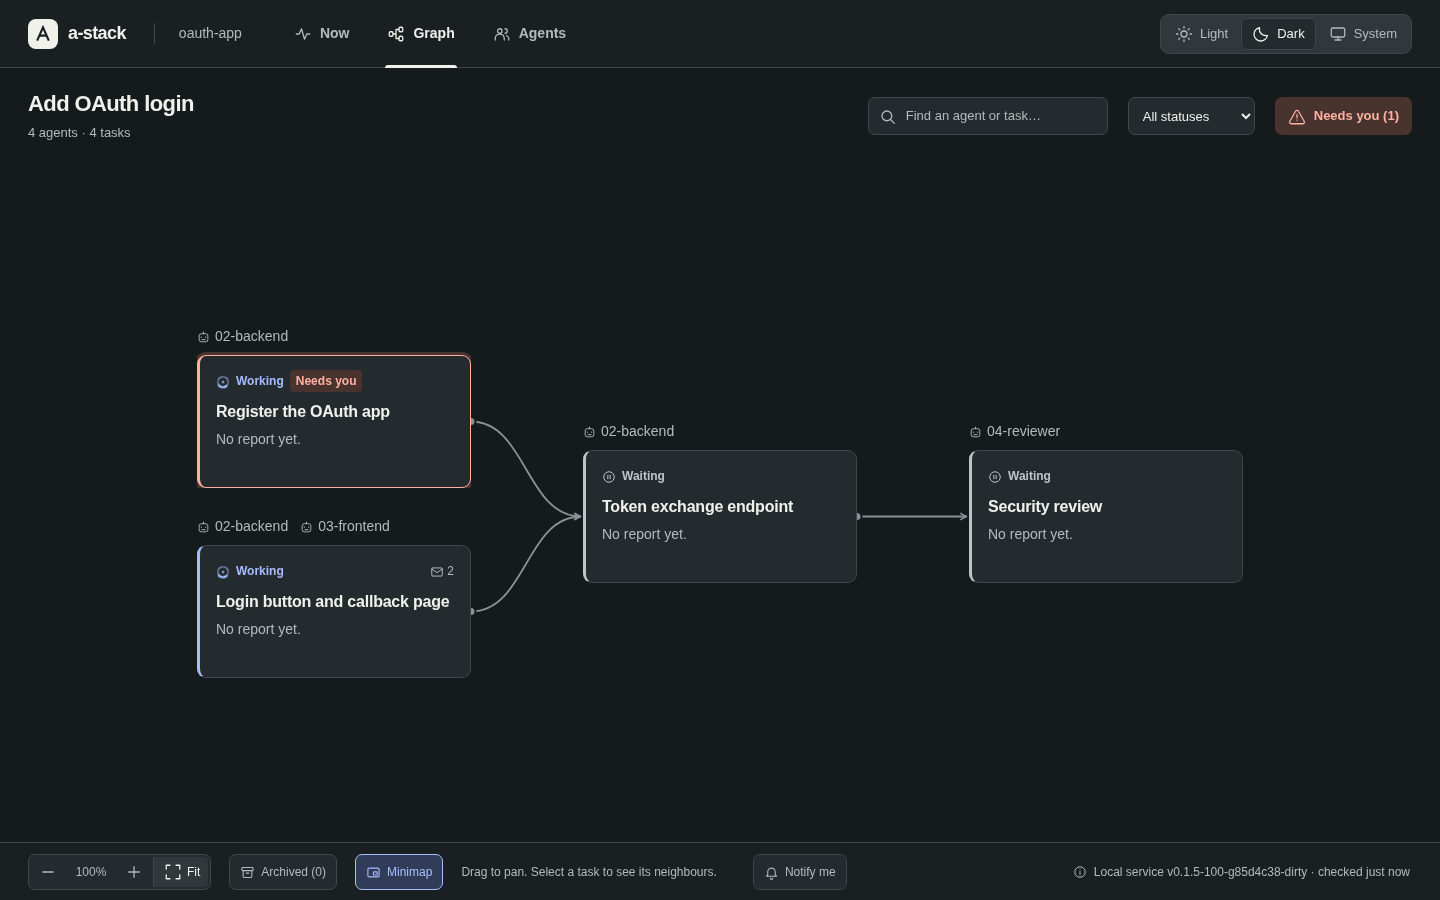
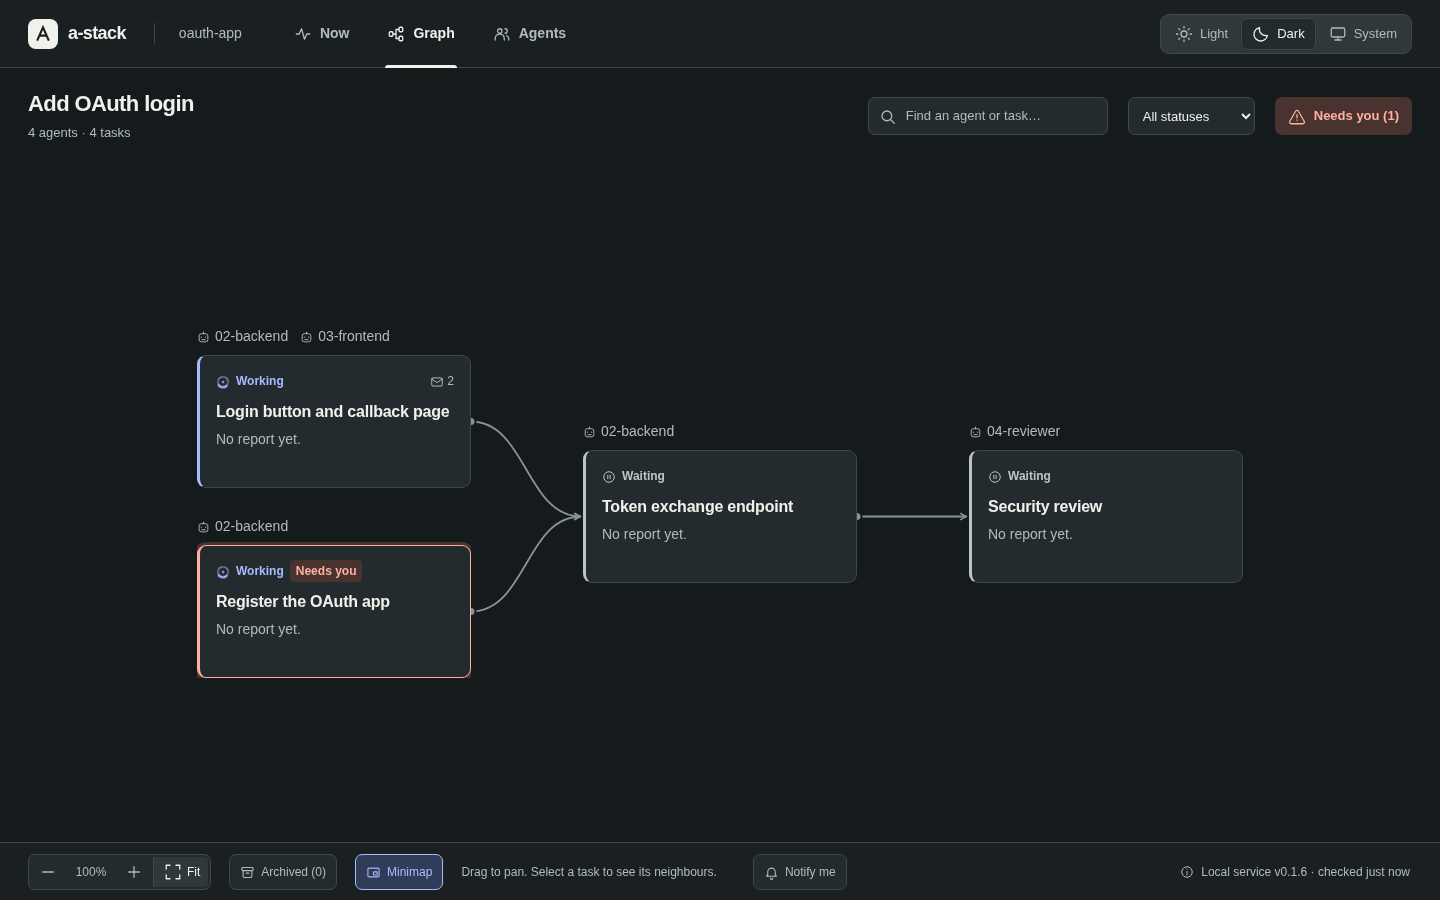
demo: re-record from v0.1.6 and shrink the GIFs
demo.gif is 2.9 MB instead of 7.4 MB at the same pace. The recorder drops
frames that do not change, keeps every third frame while the view zooms or
scrolls, uses 64 colors and runs gifsicle -O3 --lossy=40. The view footer
shows the latest release tag instead of git describe --dirty.

Changed region(s): [[0.125, 0.56, 0.3125, 0.6844], [0.125, 0.3733, 0.3125, 0.4667], [0.75, 0.9644, 0.9062, 0.9956]]

diff --git a/CONTRIBUTING.md b/CONTRIBUTING.md
@@ -55,4 +55,4 @@ After a change to the browser view or the Operator commands, record the README d
 scripts/record-demo.sh
 ```
 
-The script builds a-stack and runs a short Session on a temporary service, with a temporary HOME, explicit disposable state and private hook settings/cache. It records one story: a real terminal (`scripts/demo-terminal.py`) and the browser view (agent-browser) at the same time. Terminal helpers shorten mutation receipts and show only the first line of a Stop guard’s reason; the hook events, replies and Task changes are real. `scripts/demo-overlay.js` draws the outlines and callouts and zooms in, in the recording browser only. Then it cuts the scenes into GIFs, each scene under its caption. The scene list at the top of the script names the GIF, the tab, the terminal and the caption of each scene. To try a change without touching the images, set `DEMO_OUT` to another folder. In `docs/images` it writes `demo.gif` (the README tour), `demo-graph.gif`, `demo-archive.gif` and `demo-agents.gif` (the clips in the browser view guide), the stills `graph-light.png`, `graph-dark.png`, `graph-overview.png` (minimap and semantic zoom), `now-light.png`, `now-dark.png`, `mail-light.png`, `mail-dark.png` and `agents.png`, and `picker.png`. It deletes the temporary state when it ends. It needs Go, Python 3, ffmpeg, agent-browser, ImageMagick (`magick`) and curl. It downloads a pinned release of [agg](https://github.com/asciinema/agg) into `.tmp/` and checks its SHA-256. It does not need Docker.
+The script builds a-stack and runs a short Session on a temporary service, with a temporary HOME, explicit disposable state and private hook settings/cache. It records one story: a real terminal (`scripts/demo-terminal.py`) and the browser view (agent-browser) at the same time. Terminal helpers shorten mutation receipts and show only the first line of a Stop guard’s reason; the hook events, replies and Task changes are real. `scripts/demo-overlay.js` draws the outlines and callouts and zooms in, in the recording browser only. Then it cuts the scenes into GIFs, each scene under its caption. To keep the GIFs small at the same pace, it drops frames that do not change and shows the one before longer, keeps every third frame while the view zooms or scrolls, and uses 64 colors and gifsicle's `-O3 --lossy=40`. The footer of the view shows the latest release tag (`git describe --tags --abbrev=0`), not the development build. The scene list at the top of the script names the GIF, the tab, the terminal and the caption of each scene. To try a change without touching the images, set `DEMO_OUT` to another folder. In `docs/images` it writes `demo.gif` (the README tour), `demo-graph.gif`, `demo-archive.gif` and `demo-agents.gif` (the clips in the browser view guide), the stills `graph-light.png`, `graph-dark.png`, `graph-overview.png` (minimap and semantic zoom), `now-light.png`, `now-dark.png`, `mail-light.png`, `mail-dark.png` and `agents.png`, and `picker.png`. It deletes the temporary state when it ends. It needs Go, Python 3, ffmpeg, agent-browser, ImageMagick (`magick`), gifsicle and curl. It downloads a pinned release of [agg](https://github.com/asciinema/agg) into `.tmp/` and checks its SHA-256. It does not need Docker.

diff --git a/CHANGELOG.md b/CHANGELOG.md
@@ -6,6 +6,10 @@ The release workflow uses the section of a version as the notes of its GitHub re
 
 ## [Unreleased]
 
+### Changed
+
+- The README demo GIF is 2.9 MB instead of 7.4 MB, at the same pace, and the demo images show the release version instead of a development build. `scripts/record-demo.sh` drops frames that do not change, keeps fewer frames while the view zooms, uses 64 colors and compresses with gifsicle, which it now needs.
+
 ## [0.1.6] - 2026-10-25
 
 Upgrading from v0.1.5: run `a-stack update`, then restart the service (`systemctl --user restart a-stack`, or Ctrl-C and `a-stack serve`). The first start copies the database to `state.db.pre-v7` (`state.db.pre-v6` from v0.1.4), moves it to schema 8 and prints one line that names the copy. It needs free space of up to three times the size of `state.db`; with less, it stops before it changes anything and says how much it needs. After the upgrade, v0.1.5 cannot open the database. To go back, run `a-stack update --version v0.1.5`, stop the service, and put `state.db.pre-v7` back as `state.db` in a new state directory in the same place, as in [Go back to an older version](docs/install.md#go-back-to-an-older-version); changes made after the upgrade are lost. The database file keeps the pages that the migration freed; a backup and a restore make it small again.
